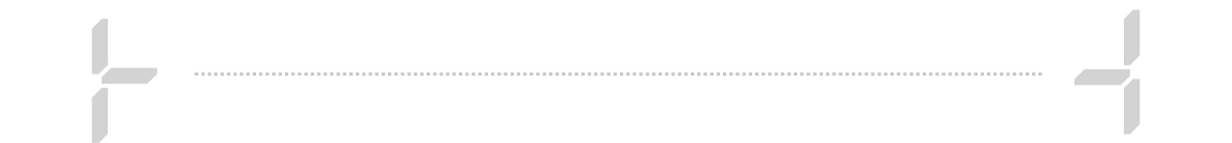
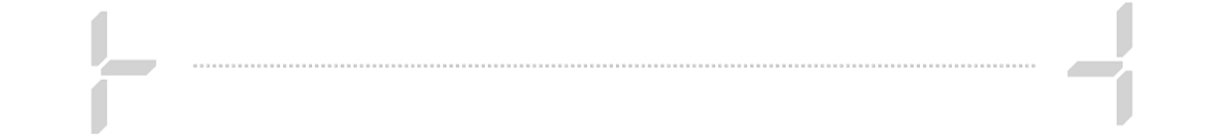
PPTX iter7: uniform question spacing (single flow textbox), no separator after last block, profile tucks into separator, updated template images

diff --git a/app/services/pptx_service.py b/app/services/pptx_service.py
@@ -308,8 +308,41 @@ def _estimate_height(paragraphs: list, width_emu: int) -> int:
     return int(total_pt * 12700)
 
 
+# Расширенный параграф с явными интервалами (в pt):
+# (runs, align, space_before_pt, space_after_pt)
+ParaExt = tuple[list, "PP_ALIGN | None", float, float]
+
+
+def _estimate_block_height(paras_ext: list, width_emu: int) -> int:
+    """
+    Высота цельного блока (заголовок + пары «вопрос/ответ») в EMU с учётом
+    ЯВНЫХ интервалов space_before/space_after каждого параграфа. Так весь блок
+    рисуется в ОДНОМ текст-фрейме, а межстрочные и межвопросные отступы задаются
+    свойствами параграфов PowerPoint → расстояния между вопросами одинаковые
+    независимо от длины текста (устраняет «где-то есть отступ, где-то нет»).
+    """
+    width_pt = max(1.0, width_emu / 12700)
+    total_pt = 2.0  # поля фрейма
+    for runs, _align, sb_pt, sa_pt in paras_ext:
+        text = "".join(r[0] for r in runs) or ""
+        size = max((r[2] for r in runs), default=SIZE_BODY)
+        char_pt = size * 0.50
+        cpl = max(1, int(width_pt / char_pt))
+        lines = 0
+        for seg in (text.split("\n") if text else [""]):
+            lines += max(1, -(-len(seg) // cpl))  # ceil
+        total_pt += sb_pt + lines * size * 1.28 + sa_pt
+    return int(total_pt * 12700)
+
+
+# Интервалы для блока вопросов (pt): между вопросами и после заголовка.
+GAP_QUESTION_PT = 10.0   # отступ ПЕРЕД каждым вопросом (одинаковый для всех)
+GAP_ANSWER_PT = 1.0      # отступ между вопросом и его ответом
+GAP_HEADER_PT = 4.0      # отступ после заголовка блока
+
 
 class _Deck:
+
     """Управляет слайдами и «курсором» вертикальной укладки контента."""
 
     def __init__(self, prs: Presentation) -> None:
@@ -435,8 +468,44 @@ class _Deck:
                 r.font.color.rgb = rgb if rgb is not None else DARK
         self.y += est + gap_after
 
+    def add_flow_block(self, paras_ext: list, gap_before: int = 0,
+                       gap_after: int = 0) -> int:
+        """
+        Рисует ЦЕЛЬНЫЙ блок (заголовок + вопросы/ответы) одним текст-фреймом.
+        Интервалы между параграфами задаются через space_before/space_after (pt),
+        поэтому промежутки между вопросами получаются ОДИНАКОВЫМИ (PowerPoint сам
+        раскладывает параграфы, а не мы позиционируем каждый бокс по «на глаз»
+        оценённой высоте). Возвращает использованную высоту (EMU).
+        """
+        self.y += gap_before
+        est = _estimate_block_height(paras_ext, self.content_w)
+        box = self.slide.shapes.add_textbox(int(self.m_left), int(self.y),
+                                             int(self.content_w), int(est))
+        tf = box.text_frame
+        tf.word_wrap = True
+        try:
+            tf.auto_size = MSO_AUTO_SIZE.NONE
+        except Exception:
+            pass
+        for i, (runs, align, sb_pt, sa_pt) in enumerate(paras_ext):
+            p = tf.paragraphs[0] if i == 0 else tf.add_paragraph()
+            if align is not None:
+                p.alignment = align
+            p.space_before = Pt(sb_pt)
+            p.space_after = Pt(sa_pt)
+            for text, bold, size, rgb in runs:
+                r = p.add_run()
+                r.text = text
+                r.font.name = FONT
+                r.font.bold = bold
+                r.font.size = Pt(size)
+                r.font.color.rgb = rgb if rgb is not None else DARK
+        self.y += est + gap_after
+        return est
+
 
 class PptxService:
+
     def __init__(self) -> None:
         self.reports_dir = Path(settings.reports_dir)
         self.reports_dir.mkdir(parents=True, exist_ok=True)
@@ -500,11 +569,13 @@ class PptxService:
             student_name=student.full_name or "",
         )
 
-        # Разделитель «обнимает» текст так же, как в блоках вопросов:
-        # заголовок ЛЕГЕНДЫ чуть ЗАХОДИТ внутрь линии (отрицательный gap_after).
+        # Разделитель «обнимает» профиль И легенду: профиль сверху ЗАХОДИТ в
+        # линию (отрицательный gap_before), а заголовок ЛЕГЕНДЫ снизу — тоже
+        # (отрицательный gap_after). Так ФИО/департамент «влипают» в разделитель.
         overlap = Inches(0.14)
-        deck.add_image_fullwidth(IMG_SEP_LINE, gap_before=Inches(0.2),
+        deck.add_image_fullwidth(IMG_SEP_LINE, gap_before=-overlap,
                                  gap_after=-overlap)
+
         # Легенда смены — заголовок ЧЁРНЫЙ (не в цвет департамента).
         deck.add_paragraphs(
             [([("ЛЕГЕНДА СМЕНЫ", True, SIZE_BLOCK, DARK)], PP_ALIGN.LEFT)],
@@ -524,10 +595,14 @@ class PptxService:
 
         deck.new_page(with_arrow=True)
         deck.add_image_fullwidth(IMG_SEP_LINE, gap_after=-overlap)
+        last_idx = len(BLOCKS) - 1
         for b_idx, (block_title, q_nums) in enumerate(BLOCKS):
             self._add_block(deck, block_title, q_nums, answers, dep_rgb)
-            deck.add_image_fullwidth(IMG_SEP_LINE, gap_before=-overlap,
-                                     gap_after=-overlap)
+            # После ПОСЛЕДНЕГО блока разделитель НЕ ставим.
+            if b_idx != last_idx:
+                deck.add_image_fullwidth(IMG_SEP_LINE, gap_before=-overlap,
+                                         gap_after=-overlap)
+
 
 
 
@@ -636,34 +711,29 @@ class PptxService:
     # ── блок с вопросами ──────────────────────────────────────────────────
     def _add_block(self, deck: _Deck, block_title: str, q_nums: list[int],
                    answers: dict, dep_rgb: RGBColor) -> None:
+        """
+        Весь блок (заголовок + все пары «вопрос/ответ») рисуется ОДНИМ текст-
+        фреймом через deck.add_flow_block. Отступы между вопросами задаются
+        одинаковым space_before (GAP_QUESTION_PT), поэтому промежутки ровные.
+        """
+        paras: list = []
         # Заголовок блока — ЧЁРНЫЙ: имя блока полужирным, описание обычным.
-        header = [(_block_title_runs(block_title), PP_ALIGN.LEFT)]
-        header_h = _estimate_height(header, deck.content_w)
+        paras.append((_block_title_runs(block_title), PP_ALIGN.LEFT,
+                      0.0, GAP_HEADER_PT))
+        for qn in q_nums:
+            label = QUESTION_LABELS.get(qn, f"Вопрос {qn}")
+            answer = answers.get(qn) or answers.get(str(qn)) or "—"
+            # Вопрос — ПОЛУЖИРНЫМ, единый отступ сверху (равные промежутки).
+            paras.append(([(f"{qn}. {label}", True, SIZE_QUESTION, DARK)],
+                          PP_ALIGN.LEFT, GAP_QUESTION_PT, GAP_ANSWER_PT))
+            # Ответ педагога — обычным, вплотную к своему вопросу.
+            paras.append(([(str(answer), False, SIZE_BODY, DARK)],
+                          PP_ALIGN.LEFT, 0.0, 0.0))
 
-        first_q = q_nums[0]
-        first_paras = self._question_paras(first_q, answers)
-        first_h = _estimate_height(first_paras, deck.content_w)
+        est = _estimate_block_height(paras, deck.content_w)
+        deck.ensure(est)
+        deck.add_flow_block(paras)
 
-        deck.ensure(header_h + first_h + Inches(0.1))
-        deck.add_paragraphs(header, gap_after=Inches(0.05))
-
-        for i, qn in enumerate(q_nums):
-            paras = self._question_paras(qn, answers)
-            h = _estimate_height(paras, deck.content_w)
-            deck.ensure(h)
-            deck.add_paragraphs(paras, gap_after=Inches(0.08))
-
-
-    @staticmethod
-    def _question_paras(q_num: int, answers: dict) -> list:
-        # Вопрос — ПОЛУЖИРНЫМ («N. текст вопроса»), ответ педагога — обычным,
-        # того же размера (визуально не отличаются, кроме жирности).
-        label = QUESTION_LABELS.get(q_num, f"Вопрос {q_num}")
-        answer = answers.get(q_num) or answers.get(str(q_num)) or "—"
-        return [
-            ([(f"{q_num}. {label}", True, SIZE_QUESTION, DARK)], PP_ALIGN.LEFT),
-            ([(str(answer), False, SIZE_BODY, DARK)], PP_ALIGN.LEFT),
-        ]
 
     # ── конвертация в PDF (через LibreOffice/soffice) ──────────────────────
     def _to_pdf(self, pptx_path: Path) -> Path: